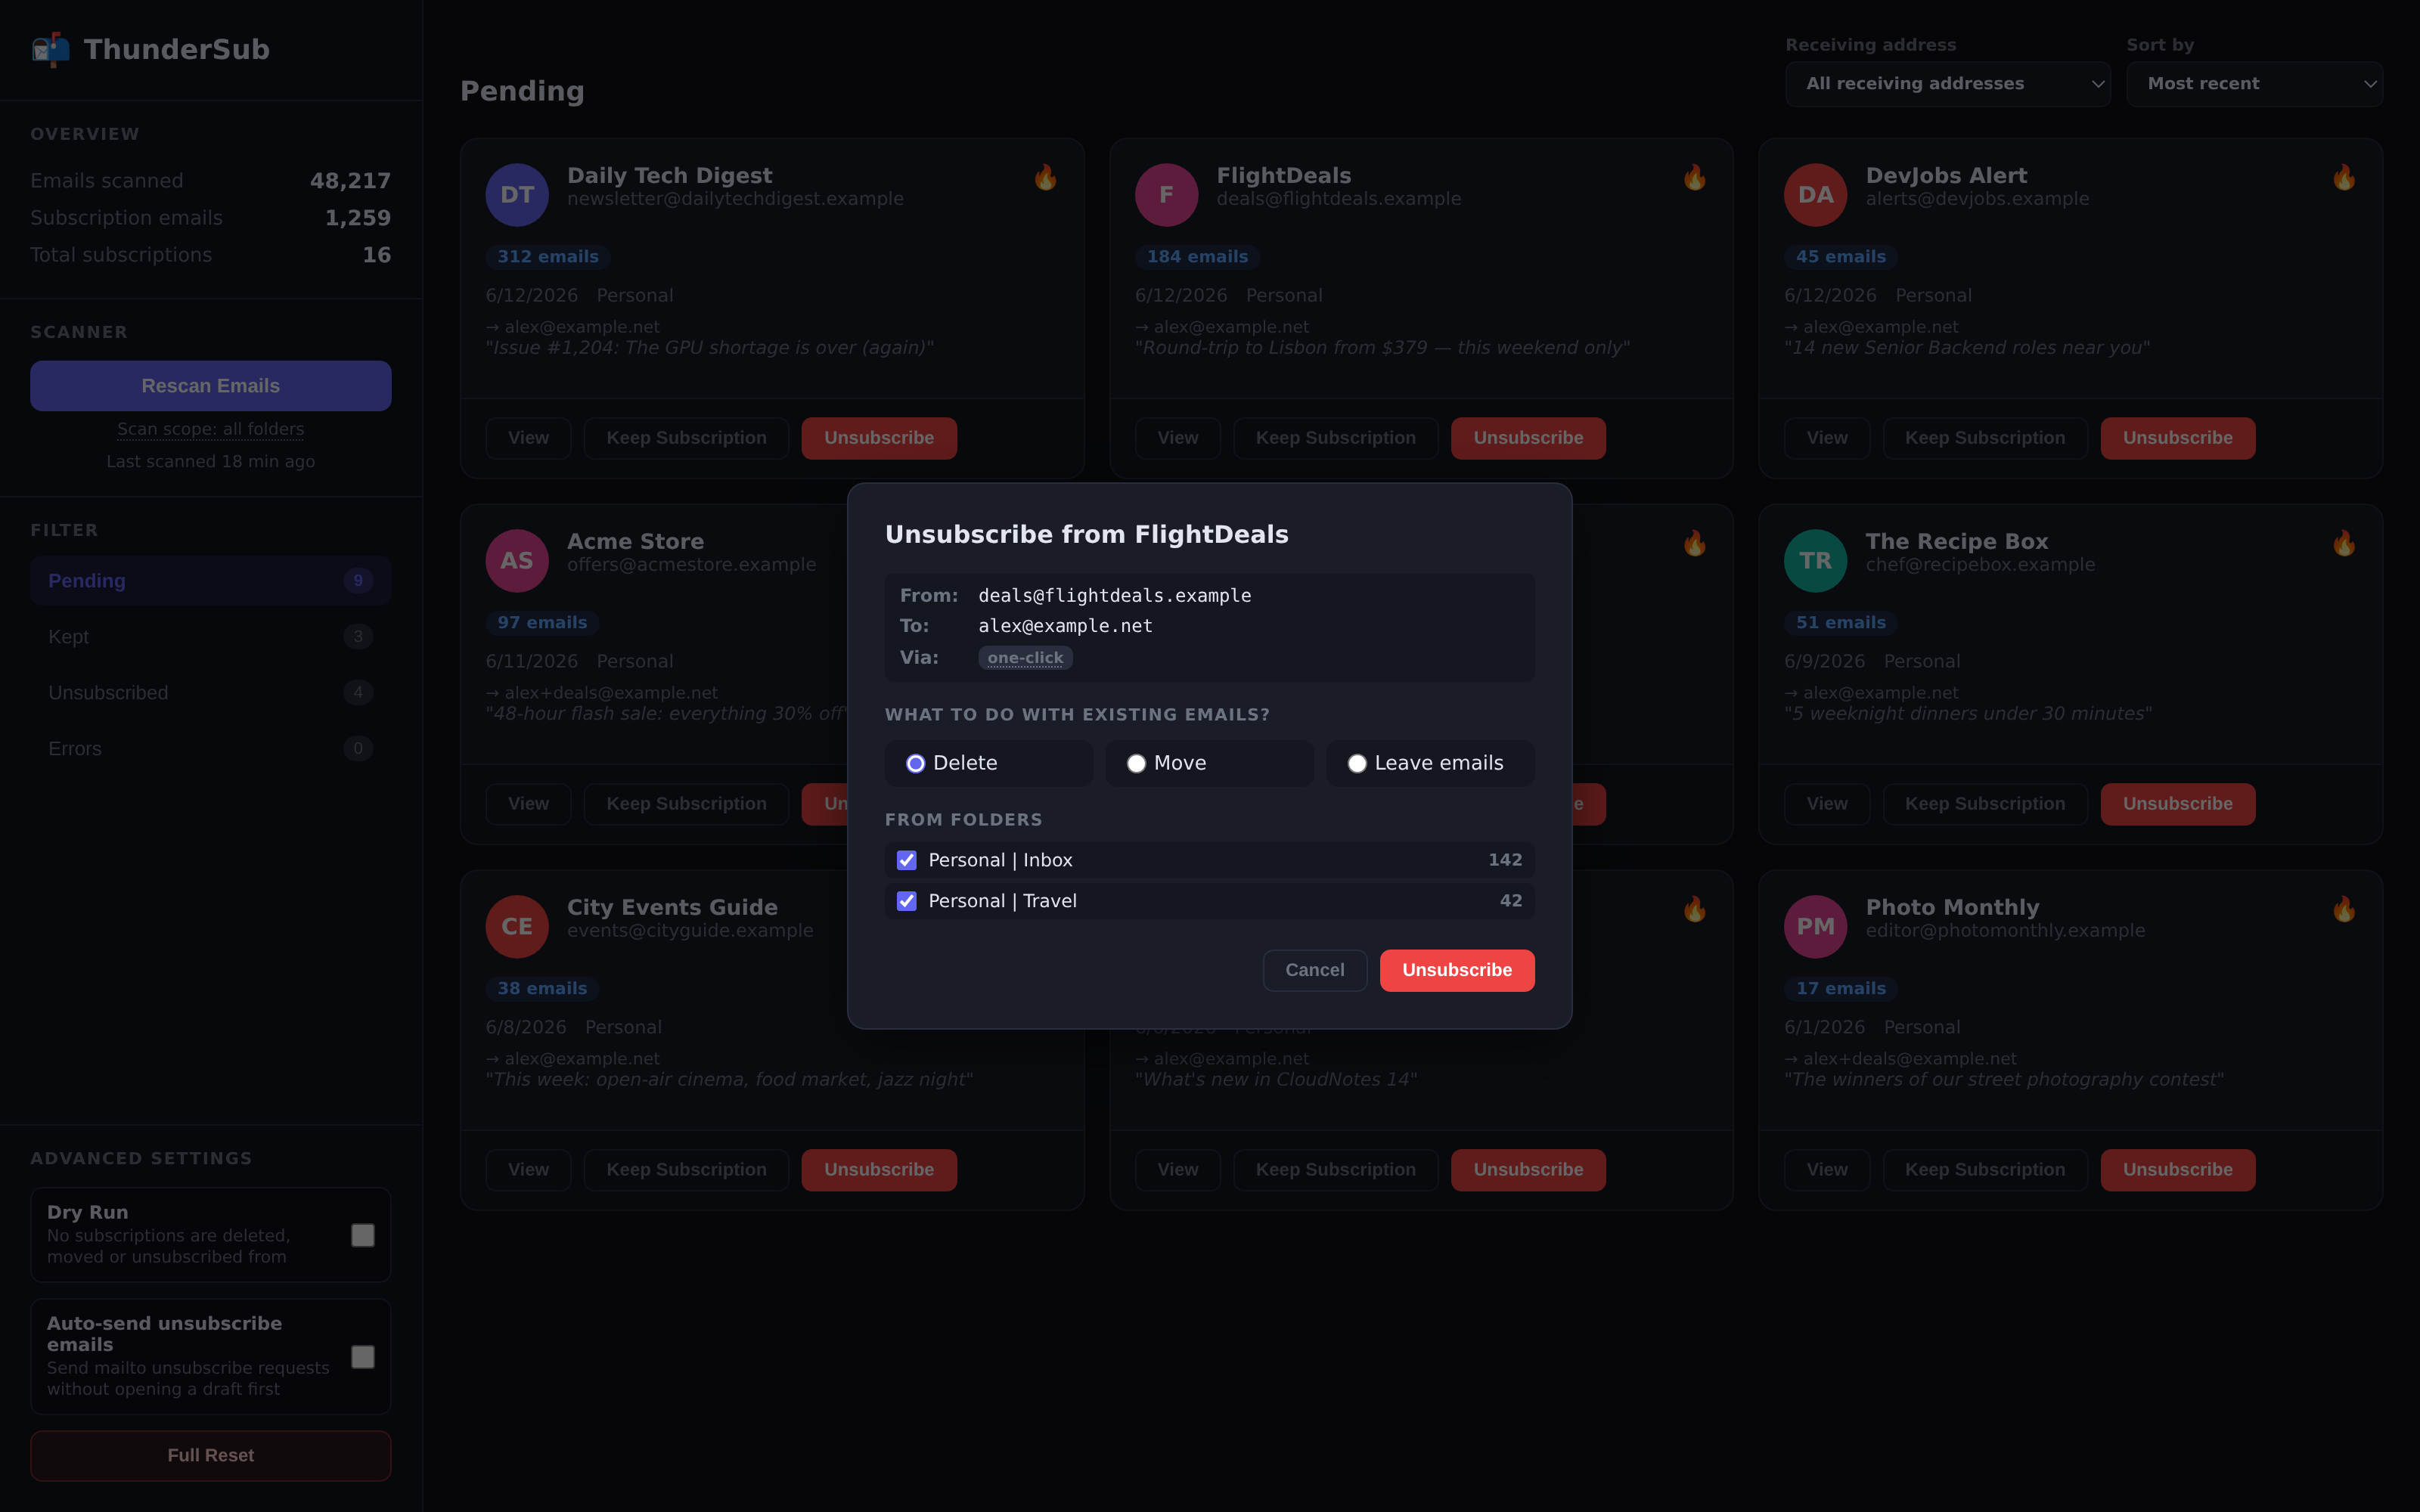
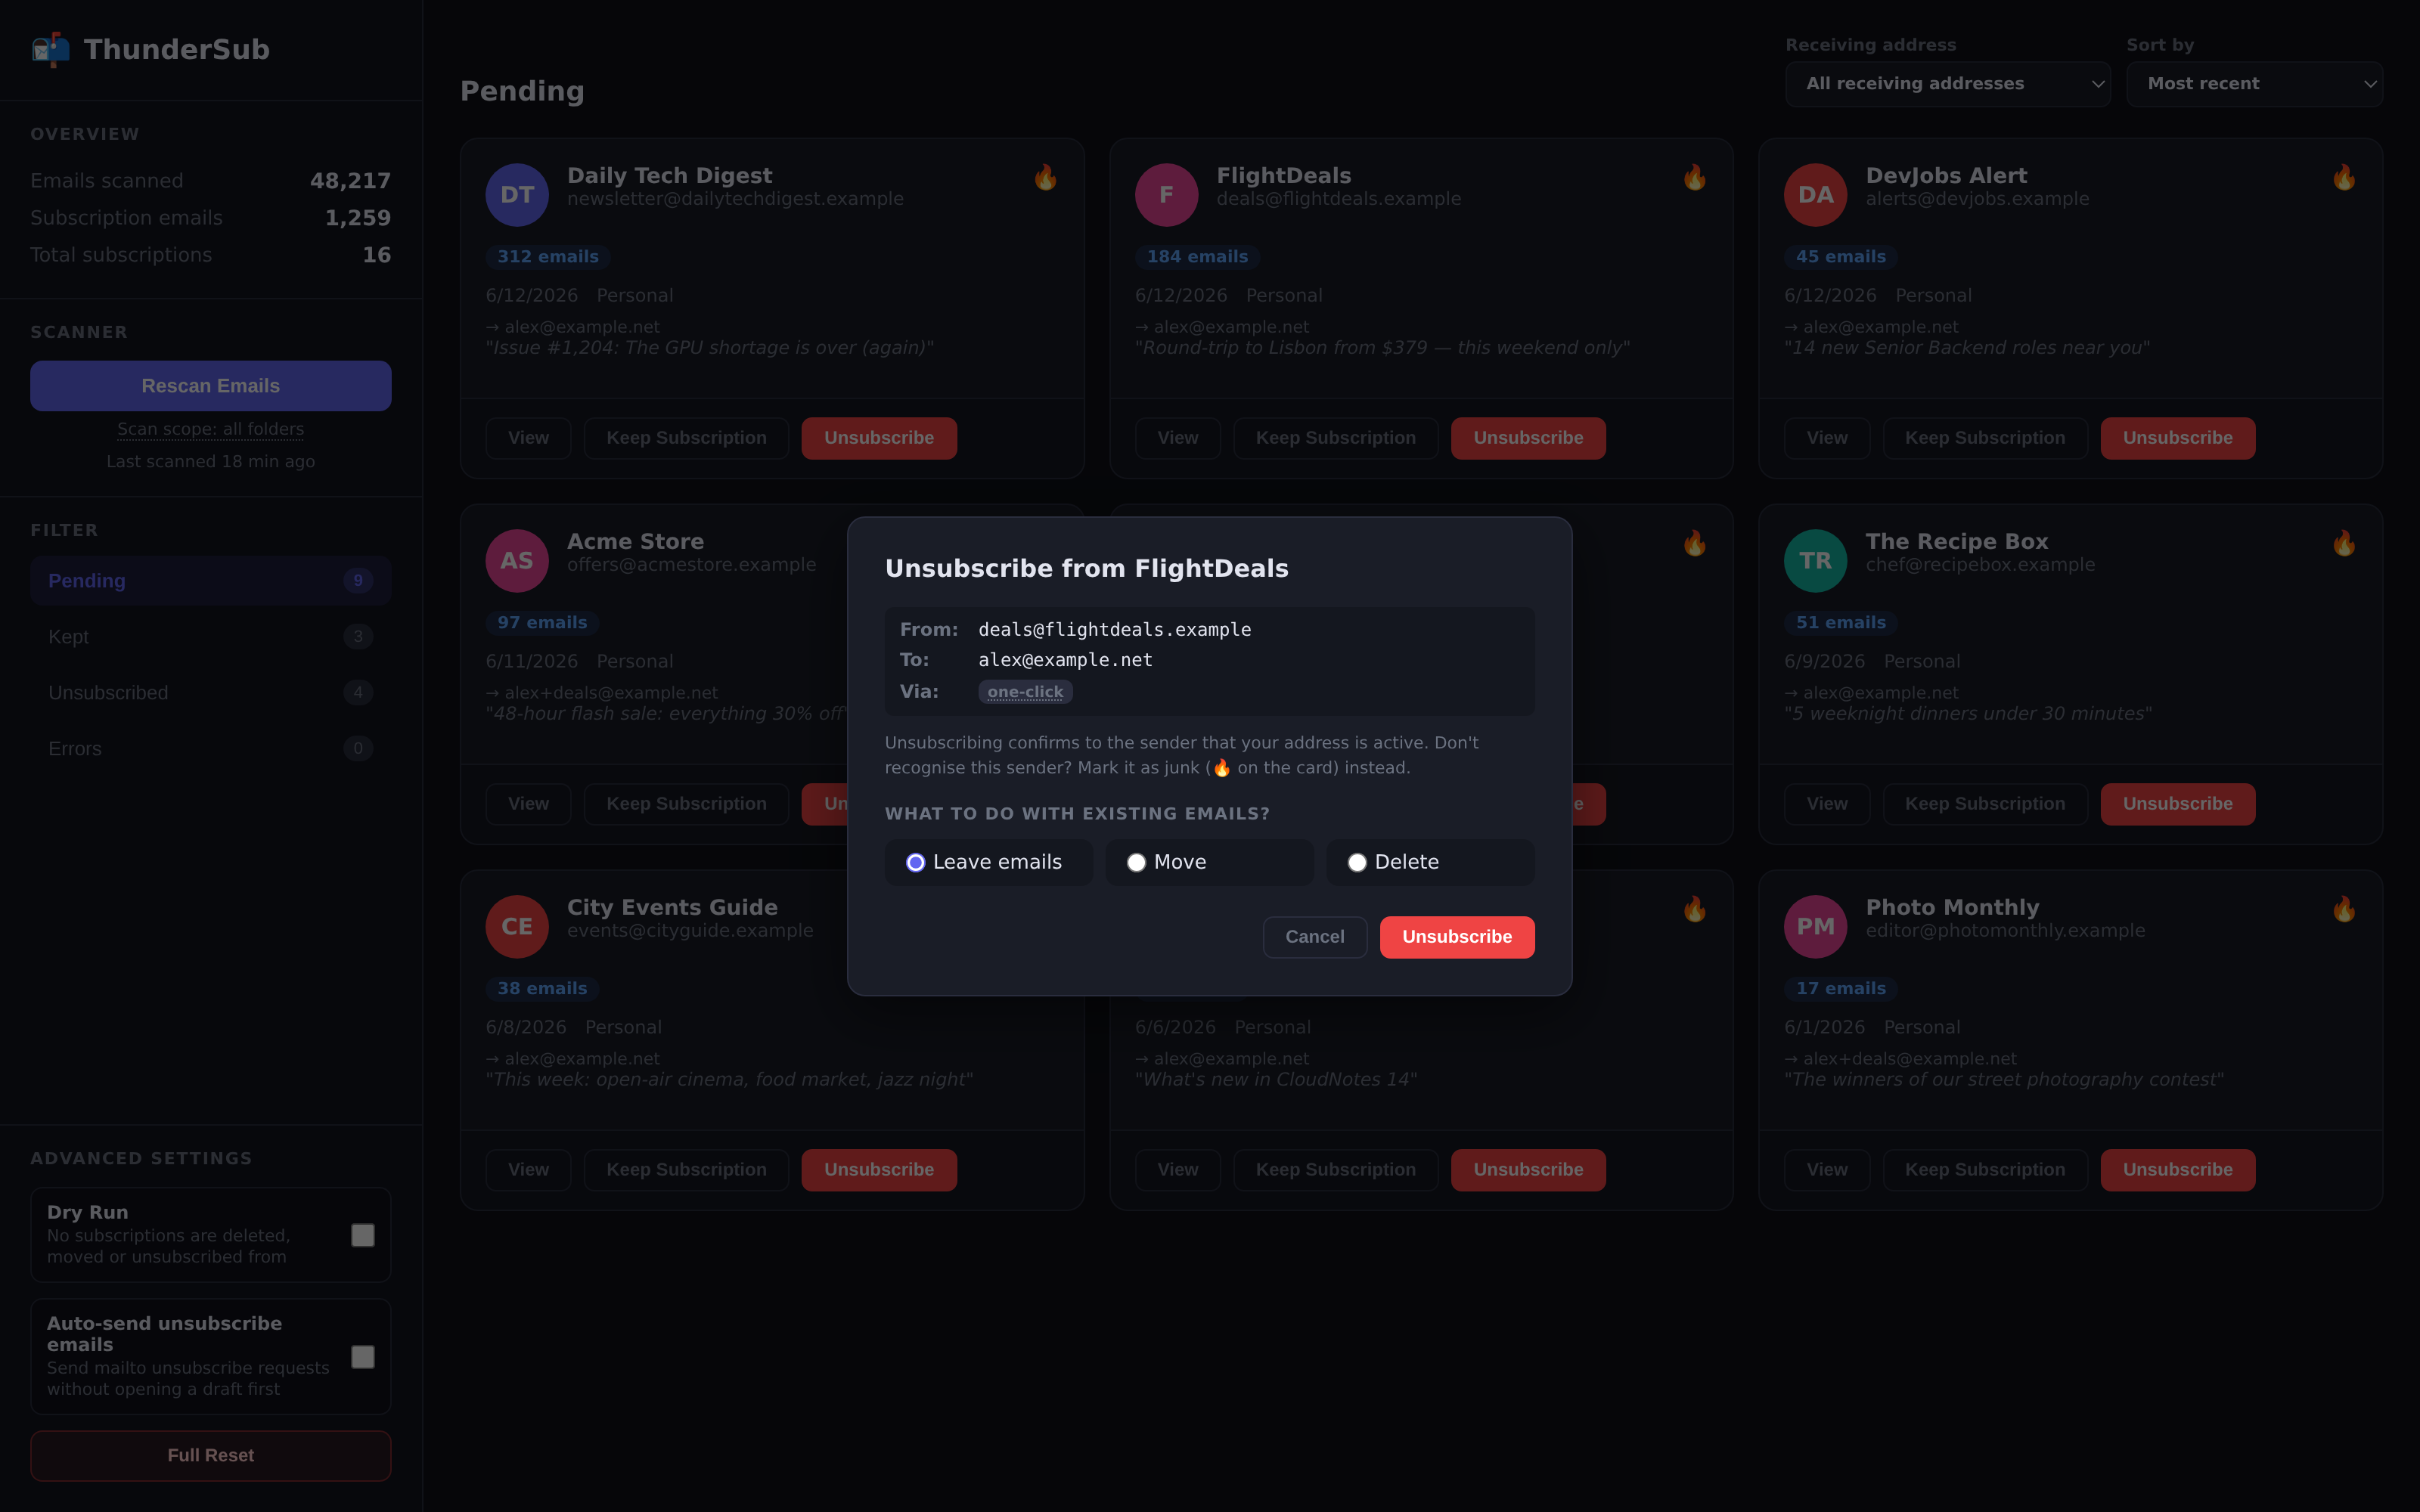
Make keeping emails the default and warn before untrusted unsubscribes
- The unsubscribe and cleanup modals now default to "Leave emails";
  deletion is a deliberate choice, not a hasty confirm away. Options
  are reordered (Leave emails / Move / Delete) so the default leads
  and the destructive action sits last.
- Add a trust notice to the unsubscribe modal: every method confirms
  to the sender that the address is live, so unknown senders are
  better marked as junk. The notice escalates to a warning when the
  sender has no List-Unsubscribe header and only a body-scraped link
  was found.
- Regenerate the listing screenshots to match.

Changed region(s): [[0.3438, 0.31, 0.6562, 0.62], [0.3438, 0.558, 0.6562, 0.682]]

diff --git a/tab/tab.js b/tab/tab.js
@@ -779,12 +779,23 @@ function openUnsubModal(senderEmail, recipientAddress, isRetry = false) {
     });
   }
 
+  // Every unsubscribe method confirms to the sender that the address is
+  // live — warn harder when there's no List-Unsubscribe header, since
+  // body-scraped links from unknown senders are the riskiest to follow.
+  const trustHint = document.getElementById('modal-trust-hint');
+  const headerBased = (sub.unsubUrls || []).length > 0;
+  trustHint.classList.toggle('warn', !headerBased);
+  trustHint.textContent = headerBased
+    ? "Unsubscribing confirms to the sender that your address is active. Don't recognise this sender? Mark it as junk (🔥 on the card) instead."
+    : "⚠ This sender doesn't use the standard unsubscribe header — only a link found in the email body. Unsubscribing from untrusted senders is not recommended: it confirms your address is active. If in doubt, mark it as junk (🔥 on the card) instead.";
+
   renderModalSourceFolders(sub);
   document.querySelector('.modal-dispose h4').textContent = 'What to do with existing emails?';
   document.querySelector('.modal-dispose').style.display = 'block';
 
-  // Reset dispose & hide destination tree
-  document.querySelector('input[name="dispose"][value="delete"]').checked = true;
+  // Reset dispose & hide destination tree. "Leave emails" is the default:
+  // deletion should be a deliberate choice, not a hasty confirm away.
+  document.querySelector('input[name="dispose"][value="keep"]').checked = true;
   document.getElementById('modal-dest-wrap').style.display = 'none';
   document.getElementById('modal-new-folder-form').style.display = 'none';
 
@@ -794,6 +805,7 @@ function openUnsubModal(senderEmail, recipientAddress, isRetry = false) {
   confirmBtn.title = detail;
 
   document.getElementById('unsub-modal-overlay').classList.add('open');
+  onDisposeChange();
 }
 
 function openCleanupModal(senderEmail, recipientAddress, action) {
@@ -826,10 +838,12 @@ function openCleanupModal(senderEmail, recipientAddress, action) {
         el('span', { class: 'modal-kv-label' }, 'Status:'),
         el('span', { class: 'modal-method' }, statusLabel))));
 
+  document.getElementById('modal-trust-hint').textContent = '';
+
   renderModalSourceFolders(sub);
   document.querySelector('.modal-dispose h4').textContent = 'Email action';
   document.querySelector('.modal-dispose').style.display = 'block';
-  document.querySelector(`input[name="dispose"][value="${action || 'delete'}"]`).checked = true;
+  document.querySelector(`input[name="dispose"][value="${action || 'keep'}"]`).checked = true;
   document.getElementById('modal-dest-wrap').style.display = 'none';
   document.getElementById('modal-new-folder-form').style.display = 'none';
 

diff --git a/tab/tab.html b/tab/tab.html
@@ -110,13 +110,14 @@
   <div class="modal">
     <h3 id="modal-title">Unsubscribe</h3>
     <div id="modal-addresses"></div>
+    <div id="modal-trust-hint" class="modal-trust-hint"></div>
 
     <div class="modal-dispose">
       <h4>What to do with existing emails?</h4>
       <div class="modal-dispose-options">
-        <label class="dispose-option"><input type="radio" name="dispose" value="delete" checked><span>Delete</span></label>
+        <label class="dispose-option"><input type="radio" name="dispose" value="keep" checked><span>Leave emails</span></label>
         <label class="dispose-option"><input type="radio" name="dispose" value="move"><span>Move</span></label>
-        <label class="dispose-option"><input type="radio" name="dispose" value="keep"><span>Leave emails</span></label>
+        <label class="dispose-option"><input type="radio" name="dispose" value="delete"><span>Delete</span></label>
       </div>
     </div>
 

diff --git a/tab/tab.css b/tab/tab.css
@@ -264,6 +264,9 @@ label.modal-addr-row:hover{background:rgba(0,0,0,.3)}
 .modal-addr-box{flex-direction:column;align-items:stretch;gap:6px;padding:8px 10px}
 .modal-kv{display:flex;align-items:center;gap:8px;font-size:13px}
 .modal-kv-label{color:var(--muted);font-size:12px;font-weight:600;min-width:44px}
+.modal-trust-hint{font-size:11px;color:var(--muted);line-height:1.5;margin-top:10px}
+.modal-trust-hint:empty{display:none}
+.modal-trust-hint.warn{color:var(--warn)}
 .modal-dispose{margin-top:16px}
 .modal-dispose-options{display:flex;gap:8px}
 .dispose-option{display:flex;align-items:center;gap:5px;padding:8px 14px;border-radius:8px;background:rgba(0,0,0,.2);cursor:pointer;font-size:13px;font-weight:500;flex:1;transition:background .15s}

diff --git a/store/LISTING.md b/store/LISTING.md
@@ -109,7 +109,7 @@ Upload `store/icon-128.png` (rendered from `icons/icon-64.svg`; `store/icon-64.p
 Ready to upload from `store/screenshots/`, in this order, with these captions:
 
 1. `01-dashboard.png` — "Every subscription across all your accounts in one place: scan results, email counts, and one-click review."
-2. `02-unsubscribe-modal.png` — "Unsubscribe and clean up in one step: pick the method, then delete, move, or keep the sender's existing emails per folder."
+2. `02-unsubscribe-modal.png` — "Unsubscribe and clean up in one step: pick the method, then keep, move, or delete the sender's existing emails per folder."
 3. `03-scan-progress.png` — "Scanning every folder with live progress — pause, resume, or stop at any time without losing results."
 4. `04-unsubscribed.png` — "Track what you've unsubscribed from, retry with another method, or clean up leftover emails later."
 5. `05-scan-scope.png` — "Control the scan: choose accounts and folders, and skip senders or whole domains before they're ever read."